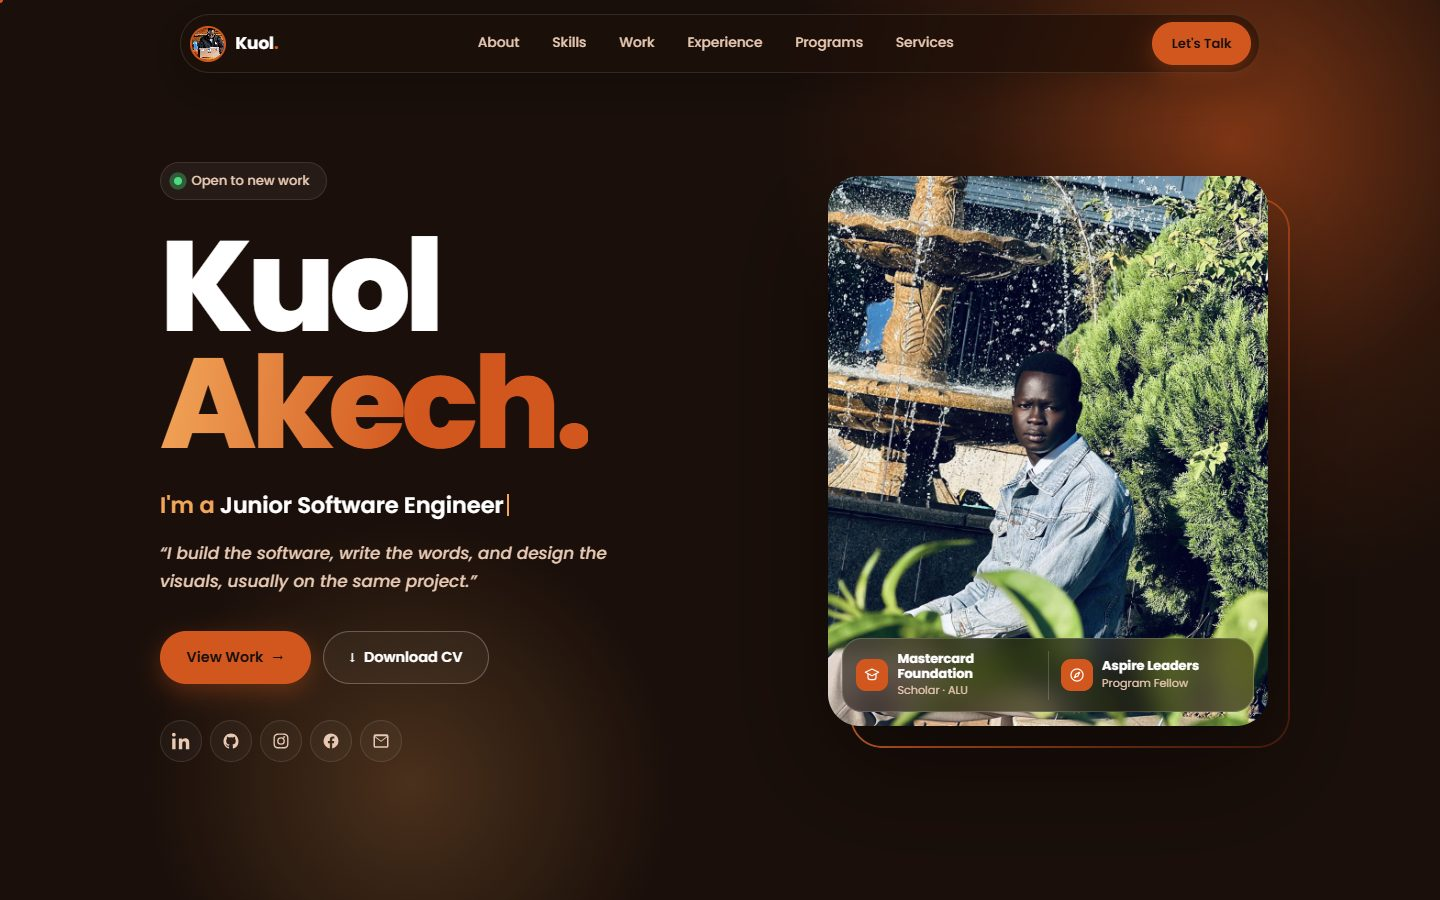
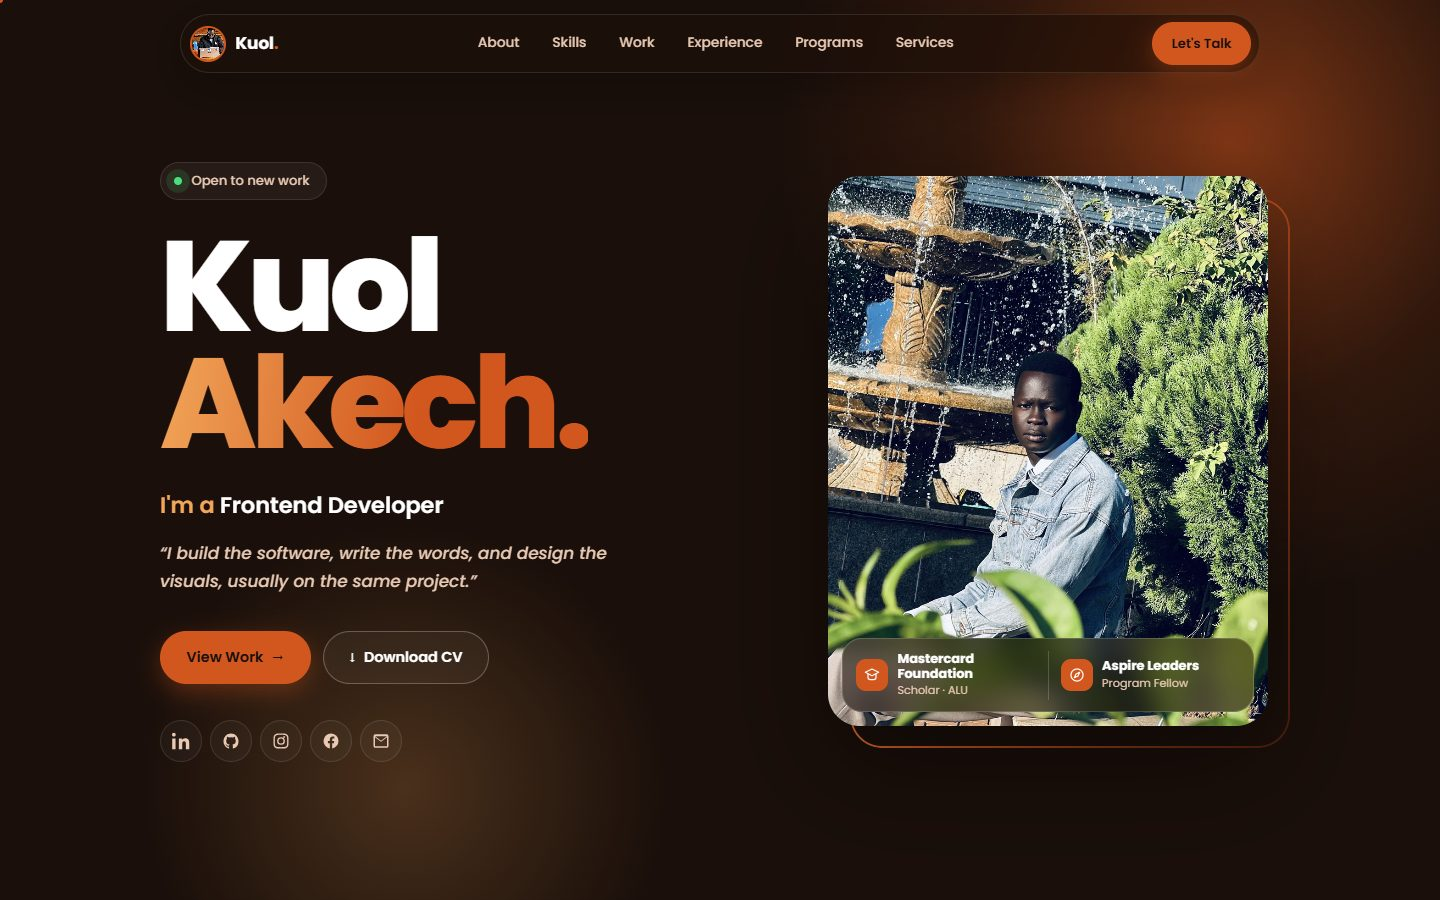
Update hero screenshot, styles, motion CSS/JS, and index.html

Changed region(s): [[0.5625, 0.1867, 0.875, 0.7156], [0.5625, 0.4356, 0.75, 0.5911], [0.1562, 0.5289, 0.3438, 0.5911]]

diff --git a/index.html b/index.html
@@ -3,16 +3,16 @@
 <head>
 <meta charset="UTF-8">
 <meta name="viewport" content="width=device-width, initial-scale=1.0">
-<title>Kuol Akech Riak Kuol · Junior Software Engineer · Frontend &amp; Backend Developer · Graphic Designer · Digital Communications Specialist</title>
-<meta name="description" content="Kuol Akech Riak Kuol is a Junior Software Engineer (Frontend &amp; Backend Developer), Graphic Designer &amp; Digital Communications Specialist who builds software, designs visuals and leads communications, usually on the same project.">
+<title>Kuol Akech Riak Kuol · Frontend &amp; Backend Developer · Graphic Designer · Digital Communications Specialist</title>
+<meta name="description" content="Kuol Akech Riak Kuol is a Frontend &amp; Backend Developer, Graphic Designer &amp; Digital Communications Specialist who builds software, designs visuals and leads communications, usually on the same project.">
 <meta name="theme-color" content="#1a0f0a">
 
 <link rel="preconnect" href="https://fonts.googleapis.com">
 <link rel="preconnect" href="https://fonts.gstatic.com" crossorigin>
 <link href="https://fonts.googleapis.com/css2?family=Caveat:wght@500;600&family=Poppins:ital,wght@0,400;0,500;0,600;0,700;0,800;1,500&display=swap" rel="stylesheet">
 
-<link rel="stylesheet" href="css/styles.css?v=53">
-<link rel="stylesheet" href="css/motion.css?v=4">
+<link rel="stylesheet" href="css/styles.css?v=54">
+<link rel="stylesheet" href="css/motion.css?v=5">
 <script>
   /* Decide before first paint whether to play the intro: once per session, never with reduced motion. */
   (function () {
@@ -97,8 +97,8 @@
         <p class="status-pill"><span class="status-dot"></span> <span>Open to new work</span></p>
         <h1><span class="h1-line"><span>Kuol</span></span><span class="h1-line"><span class="gradient-text">Akech.</span></span></h1>
         <p class="hero-subtitle">
-          <span class="sr-only">Junior Software Engineer, Frontend Developer, Backend Developer, Graphic Designer &amp; Digital Communications Specialist</span>
-          <span class="roles" aria-hidden="true"><span class="roles-prefix">I'm a</span> <span class="roles-word" id="rolesWord">Junior Software Engineer</span><span class="roles-caret"></span></span>
+          <span class="sr-only">Frontend Developer, Backend Developer, Graphic Designer &amp; Digital Communications Specialist</span>
+          <span class="roles" aria-hidden="true"><span class="roles-prefix">I'm a</span> <span class="roles-word" id="rolesWord">Frontend Developer</span><span class="roles-caret"></span></span>
         </p>
         <p class="hero-quote">“I build the software, write the words, and design the visuals, usually on the same project.”</p>
 
@@ -158,7 +158,7 @@
         <article class="tile tile--bio">
           <span class="tile-label">Hello, I'm Kuol</span>
           <p class="tile-lead">Building software, designing visuals, and writing the words that resonate.</p>
-          <p>I'm Kuol Akech Riak, a Junior Software Engineer (Frontend and Backend Developer), Graphic Designer and Digital Communications Specialist based in Kigali, Rwanda. I design and build full-stack web applications, from the database and backend to the interface, thinking through how they're structured before I ever touch the interface, then shipping products people actually enjoy using, and I pair that work with the visuals and content that make it land: sharp graphic design, brand systems, and writing that sounds like a person, not a template. Working across South Sudan, Rwanda, and beyond, I help individuals, nonprofits, and growing organizations turn scattered ideas into tools their audiences can actually use, and turn quiet work into stories people remember. I'm currently studying Software Engineering at the African Leadership University (ALU), building the same range of skills into everything I take on next.</p>
+          <p>I'm Kuol Akech Riak, a Frontend and Backend Developer, Graphic Designer and Digital Communications Specialist based in Kigali, Rwanda. I design and build full-stack web applications, from the database and backend to the interface, thinking through how they're structured before I ever touch the interface, then shipping products people actually enjoy using, and I pair that work with the visuals and content that make it land: sharp graphic design, brand systems, and writing that sounds like a person, not a template. Working across South Sudan, Rwanda, and beyond, I help individuals, nonprofits, and growing organizations turn scattered ideas into tools their audiences can actually use, and turn quiet work into stories people remember. I'm currently studying Software Engineering at the African Leadership University (ALU), building the same range of skills into everything I take on next.</p>
         </article>
 
         <figure class="tile tile--photo">
@@ -436,7 +436,7 @@
 
         <article class="work-card" data-category="web-design">
           <div class="work-media work-media--fit">
-            <img decoding="async" loading="lazy" src="assets/screenshots/portfolio-hero-2026.jpg?v=4" alt="This portfolio's homepage hero">
+            <img decoding="async" loading="lazy" src="assets/screenshots/portfolio-hero-2026.jpg?v=5" alt="This portfolio's homepage hero">
           </div>
           <div class="work-body">
             <div class="work-meta"><span class="work-index">04</span><span class="work-tag">Web Design</span></div>
@@ -743,7 +743,7 @@
   <div class="cv-head">
     <div>
       <h2 id="cvTitle">Kuol Akech Riak Kuol</h2>
-      <p class="cv-role">Junior Software Engineer · Frontend &amp; Backend Developer · Graphic Designer · Digital Communications Specialist</p>
+      <p class="cv-role">Frontend &amp; Backend Developer · Graphic Designer · Digital Communications Specialist</p>
       <p class="cv-contact">Kigali, Rwanda · k.kuol@alustudent.com · <a href="https://www.linkedin.com/in/kuol-akech/" target="_blank" rel="noopener">LinkedIn</a> · <a href="https://github.com/k-kuol" target="_blank" rel="noopener">GitHub</a></p>
     </div>
     <div class="cv-actions">
@@ -755,7 +755,7 @@
   <div class="cv-body">
     <section class="cv-section">
       <h4>Summary</h4>
-      <p>Junior Software Engineer (Frontend and Backend Developer), Graphic Designer and Digital Communications Specialist who ships full products, not just code – designing databases and backends, building interfaces, and pairing them with the brand systems and writing that make people trust what they're using. Proven across six African countries: platforms that manage real land and identity data, communications strategy for a multi-country organization, and mentorship programs that turn frameworks into results. Currently completing a Software Engineering degree at the African Leadership University while actively delivering for clients and communities across the continent.</p>
+      <p>Frontend and Backend Developer, Graphic Designer and Digital Communications Specialist who ships full products, not just code – designing databases and backends, building interfaces, and pairing them with the brand systems and writing that make people trust what they're using. Proven across six African countries: platforms that manage real land and identity data, communications strategy for a multi-country organization, and mentorship programs that turn frameworks into results. Currently completing a Software Engineering degree at the African Leadership University while actively delivering for clients and communities across the continent.</p>
     </section>
 
     <section class="cv-section">
@@ -854,6 +854,6 @@
 <script src="https://cdnjs.cloudflare.com/ajax/libs/gsap/3.12.5/ScrollTrigger.min.js" defer></script>
 <script src="https://unpkg.com/lenis@1.1.13/dist/lenis.min.js" defer></script>
 <script src="js/main.js?v=9" defer></script>
-<script src="js/motion.js?v=8" defer></script>
+<script src="js/motion.js?v=9" defer></script>
 </body>
 </html>

diff --git a/js/motion.js b/js/motion.js
@@ -90,7 +90,7 @@
   const startRoles = () => {
     if (!rolesWord) return;
     window.clearTimeout(roleTimer);
-    const list = ['Junior Software Engineer', 'Frontend Developer', 'Backend Developer', 'Graphic Designer', 'Digital Communications Specialist'];
+    const list = ['Frontend Developer', 'Backend Developer', 'Graphic Designer', 'Digital Communications Specialist'];
     rolesWord.textContent = list[0];
     if (reduce || list.length < 2) return;
 

diff --git a/css/styles.css b/css/styles.css
@@ -1711,7 +1711,6 @@ summary:focus-visible {
 .hero-text > *:nth-child(4) { animation-delay: 0.24s; }
 .hero-text > *:nth-child(5) { animation-delay: 0.32s; }
 .hero-text > *:nth-child(6) { animation-delay: 0.4s; }
-.hero-photo { animation: rise 1s 0.25s var(--ease) both; }
 @keyframes rise {
   from { opacity: 0; transform: translateY(32px); }
   to   { opacity: 1; transform: none; }

diff --git a/css/motion.css b/css/motion.css
@@ -75,7 +75,6 @@ html.is-intro .intro {
 
 /* hold the hero entrance until the intro lifts */
 html.is-intro .hero-text > *,
-html.is-intro .hero-photo,
 html.is-intro .h1-line > span { animation-play-state: paused; }
 
 /* ---------- hero headline lines + typed roles ---------- */
